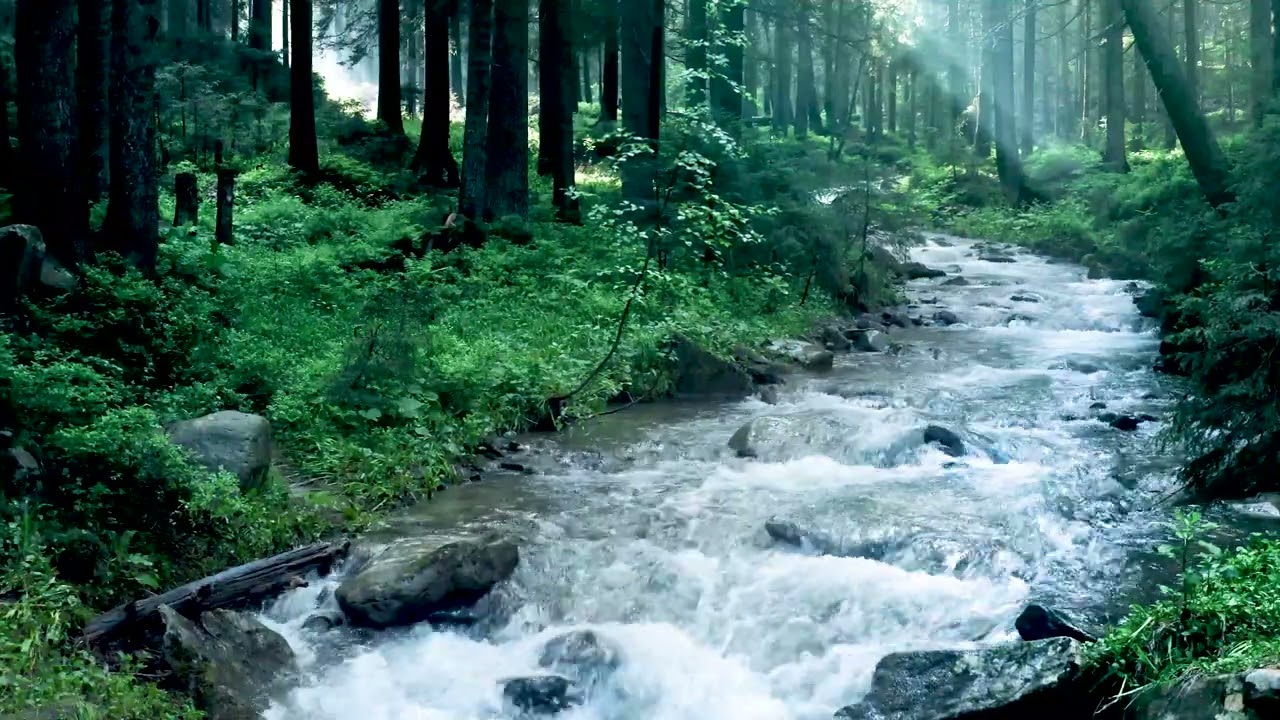
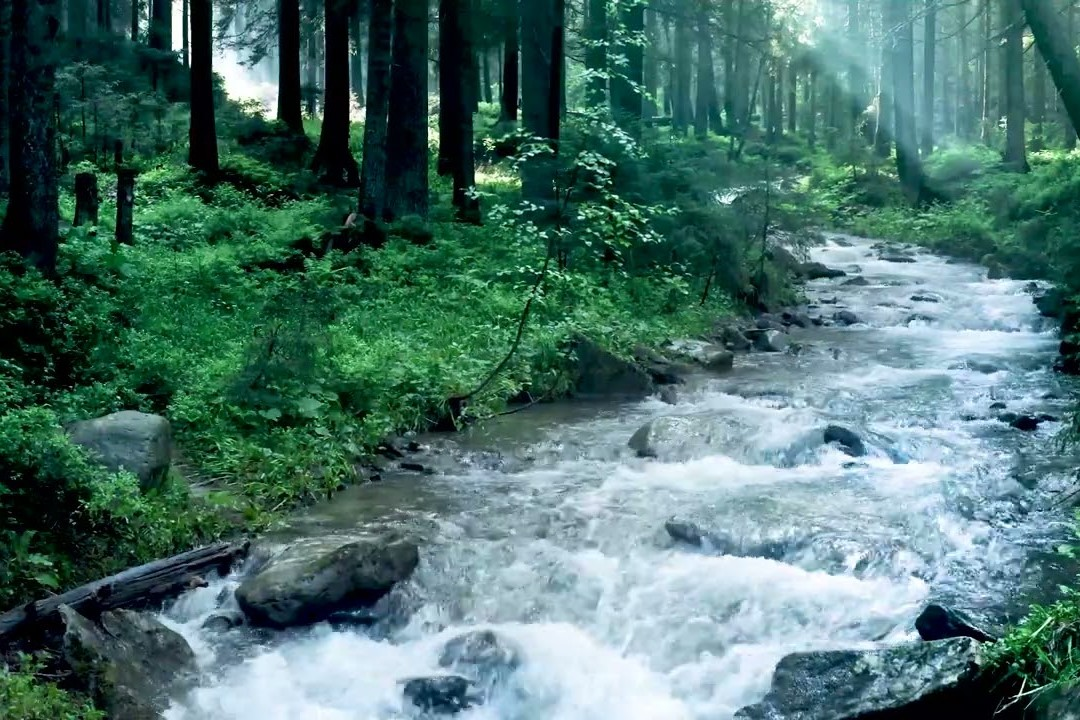
Finishing Touches

diff --git a/wwr/styles/style.css b/wwr/styles/style.css
@@ -2,39 +2,43 @@
 
 :root {
   /* change the values below to your colors from your palette */
-  --primary-color: #258EA6;
-  --secondary-color: #549F93;
-  --accent1-color: #9FAF90;
-  --accent2-color: #E2B1B1;
+  --primary-color: #5887FF;
+  --secondary-color: #102E4A;
+  --accent1-color: #55C1FF;
+  --accent2-color: #715AFF;
 
   /* change the values below to your chosen font(s) */
   --heading-font: "PT Serif", serif;
   --paragraph-font: "PT Serif", serif;
 
   /* these colors below should be chosen from among your palette colors above */
-  --headline-color-on-white: #258EA6;  /* headlines on a white background */ 
-  --headline-color-on-color: #9FAF90; /* headlines on a colored background */ 
-  --paragraph-color-on-white: #258EA6; /* paragraph text on a white background */ 
-  --paragraph-color-on-color: #9FAF90; /* paragraph text on a colored background */ 
-  --paragraph-background-color: #549F93;
-  --nav-link-color: #549F93;
-  --nav-background-color: #549F93;
-  --nav-hover-link-color: #E2B1B1;
-  --nav-hover-background-color: #549F93;
+  --headline-color-on-white: black;  /* headlines on a white background */ 
+  --headline-color-on-color: #715AFF; /* headlines on a colored background */ 
+  --paragraph-color-on-white: #102E4A; /* paragraph text on a white background */ 
+  --paragraph-color-on-color: #55C1FF; /* paragraph text on a colored background */ 
+  --paragraph-background-color: #55C1FF;
+  --nav-link-color: #55C1FF;
+  --nav-background-color: #55C1FF;
+  --nav-hover-link-color: #715AFF;
+  --nav-hover-background-color: #715AFF;
 }
 
 body {
-    background-color: #258EA6;
+    background-color: var(--primary-color);
     margin: 0;
     padding: 0;
 }
 
 header {
-    background-color: #549F93;
+    display: grid;
+    grid-template-columns: 150px auto;
+    background-color: var(--secondary-color);
 }
 
 #logo_link {
     padding-top: 5px;
+    justify-self: center;
+    align-self: center;
 }
 
 nav a {
@@ -42,24 +46,66 @@ nav a {
     color: black;
     text-decoration: none;
     padding: 35px;
+    display: flex;
+    justify-content: space-around;
+}
+nav {
+    display: flex;
+    justify-content: space-around;
+    font-size: 24px;
 }
 
 nav a:hover {
-    background-color: #9FAF90;
+    background-color: var(--accent1-color);
     color: #258EA6;
 }
 
 #hero-msg h1, #hero-msg h4 {
     text-align: center;
+    padding-top: 20px;
+
+}
+#hero-msg {
+    grid-column: 2/3;
+    grid-row: 1/2;
+    margin-top: 100px;
+    text-align: center;
+}
+#hero-box {
+    grid-column: 1/4;
+    grid-row: 1/3;
+    z-index: -1;
+}
+#hero-msg h4 {
+    color: black;
+    text-align: center;
+}
+#hero {
+    display: grid;
+    grid-template-columns: 1fr 3fr 1fr;
+    margin-top: -100px; 
+    text-align: center;
+    margin: auto auto;
+    width: 100%;
+
+}
+#hero-img {
+    width: 100%;
 }
 
 .button-box {
     text-align: center;
+    padding-top: 25px;
 }
 
 .home-title {
     color: black;
     margin-top: 10px;
+    grid-column: 2/3;
+}
+.home-grid {
+    display: grid;
+    grid-template-columns: repeat(10, 1fr);
 }
 
 h1, h2, h3, h4, h5, h6 {
@@ -91,9 +137,32 @@ main section {
 .rivers-card, .camping-card, .rapids-card {
     margin: 200px 0;
 }
+.rivers-card {
+    width: 100%;
+    height: 100%;
+    grid-column: 2/4;
+    grid-row: 2/3;
+}
+.camping-card {
+    grid-column: 5/7;
+    grid-row: 2/3;
+}
+.rapids-card {
+    grid-column: 8/10;
+    grid-row: 2/3;
 
+}
 .card-img {
     border: 10px solid var(--secondary-color);
+    transition: transform .5s;
+    box-shadow: 5px 5px 10px var(--accent2-color);
+}
+.card-img, .mountains {
+    width: 100%;
+}
+.card-img:hover {
+    opacity: .6;
+    transform: scale(1.1);
 }
 
 .icon {
@@ -101,21 +170,24 @@ main section {
 }
 
 .msg {
-    background-color: #549F93;
+    background-color: var(--accent1-color);
     padding: 35px;
+    grid-column: 6/10;
+    grid-row: 6/7;
+    box-shadow: 5px 5px 10px var(--accent2-color)
 }
 
 .msg h2 {
-    color: black;
+    color: var(--accent2-color);
 }
 
 .msg p {
-    color: #E2B1B1;
+    color: black;
     padding-bottom: 15px;
 }
 
 .book, .join {
-    background-color: #9FAF90;
+    background-color: var(--secondary-color);
     color: black;
     text-decoration: none;
     padding: 15px 30px;
@@ -124,28 +196,34 @@ main section {
 }
 
 .book:hover, .join:hover {
-    background-color: #E2B1B1;
+    background-color: var(--accent2-color);
     color: black;
 }
 
 #background {
     height: 725px;
-    background-color: #258EA6;
+    background-color: var(--secondary-color);
+    grid-column: 1/11;
+    grid-row: 4/9;
 }
 
 footer {
-    background-color: #549F93;
+    background-color: var(--secondary-color);
     color: black;
     padding: 25px 50px;
     margin-top: 200px;
+    display: flex;
+    justify-content: space-around;
+    align-items: center;
 }
 
 footer p {
-    font-size: 12px;
+    font-size: 24px;
+    color: black;
 }
 
 footer a {
-    color: #E2B1B1;
+    color: black;
     text-decoration: none;
 }
 
@@ -159,5 +237,52 @@ footer a:hover {
     padding-top: 15px;
 }
 .mountains {
-    margin: 100px 0;
+    width: 100%;
+    grid-column: 2/7;
+    grid-row: 5/8;
+    box-shadow: 5px 5px 10px var(--accent2-color);
+}
+
+@media screen and (max-width: 900px) {
+    #hero, .home-grid {
+        display: block;
+        height: auto;
+    }
+    nav, footer {
+        flex-direction: column;
+    }
+    nav a {
+        display: block;
+        padding: 15px;
+    }
+    #hero {
+        margin-top: 0;
+    }
+    #hero-msg {
+        margin-top: 0;
+    }
+    #hero-msg h4 {
+        display: none;
+    }
+    #hero-msg h1 {
+        color: black;
+    }
+    .home-title {
+        font-size: 25px;
+    }
+    .rivers-card, .camping-card, .rapids-card { 
+        margin: 50px auto;
+        width: 60%;
+    }
+    #background {
+        display: none;
+    }
+    .mountains, .msg {
+        width: 80%;
+        display: block;
+        margin: 0 auto;
+    }
+    footer {
+        margin-top: 25px;
+    }
 }

diff --git a/wwr/index.html b/wwr/index.html
@@ -21,10 +21,10 @@
 </header>
 <div id="hero">
     <div id="hero-box">
-        <img id="hero-img" src="images/raft-enjoyers.png" style="height: 400px;" alt="People enjoying white water rafting">
+        <img id="hero-img" src="images/raft-enjoyers.png" alt="People enjoying white water rafting">
     </div>
     <section id="hero-msg">
-        <h1 class="home-title">Have An Adventure</h1>
+        <h1 class="home-title">Be educated on the concept of rafting</h1>
         <h4>Try our virtual demonstration that shows exactly what rafting is!</h4>
         <div class="button-box">
             <a class="book" href="contactus.html">Virtual Activity</a>
@@ -33,7 +33,7 @@
 </div>
 <main class="home-grid">
     <section class="rivers-card">
-        <img class="card-img" src="images/rivers.jpg" style="height: 400px;" alt="river in forest">
+        <img class="card-img" src="images/rivers.jpg" alt="river in forest">
         <img class="icon" src="images/river_icon.png" style="height: 100px;" alt="river icon">
         <h2>Rivers</h2>
     </section>
